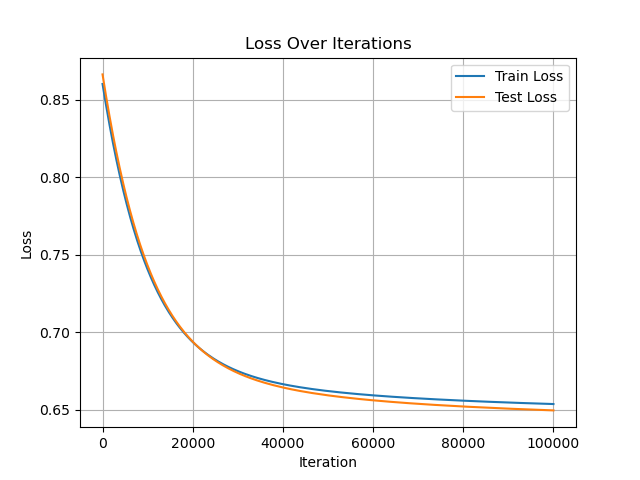
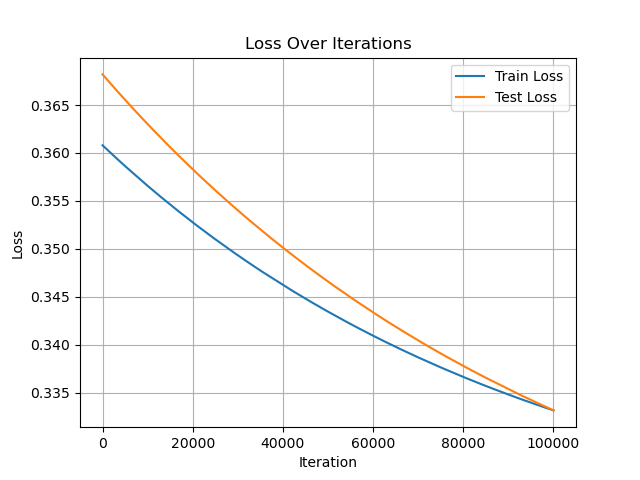
Add files via upload

diff --git a/midterm.py b/midterm.py
@@ -10,11 +10,17 @@ start_time = time.time()
 
 X_train, Y_train, X_test, Y_test = load_dataset('ai4i2020.csv')
 
-# linear_model = LinearRegression(n_iter=300000, lr=5e-6, batch_size=64)
-# linear_model.train(X_train, Y_train, X_test, Y_test)
-# linear_model.plot_loss()
-# evaluate_model(linear_model, X_test, Y_test)
-# plot_confusion_results(linear_model, X_test, Y_test)
+linear_model = LinearRegression(n_iter=50000, lr=8e-4, batch_size=64)
+linear_model.train(X_train, Y_train, X_test, Y_test)
+linear_model.plot_loss()
+evaluate_model(linear_model, X_test, Y_test)
+plot_confusion_results(linear_model, X_test, Y_test)
+
+# from sklearn.linear_model import LinearRegression
+# linear_sklearn = LinearRegression()
+# linear_sklearn.fit(X_train, Y_train)
+# evaluate_model(linear_sklearn, X_test, Y_test)
+# plot_confusion_results(linear_sklearn, X_test, Y_test)
 
 # perceptron_model = Perceptron(n_iter=10000, lr=2e-4, batch_size=64)
 # perceptron_model.train(X_train, Y_train, X_test, Y_test)
@@ -22,24 +28,35 @@ X_train, Y_train, X_test, Y_test = load_dataset('ai4i2020.csv')
 # evaluate_model(perceptron_model, X_test, Y_test)
 # plot_confusion_results(perceptron_model, X_test, Y_test)
 
+# from sklearn.linear_model import Perceptron
+# perceptron_sklearn = Perceptron(max_iter=100000, random_state=42)
+# perceptron_sklearn.fit(X_train, Y_train)
+# evaluate_model(perceptron_sklearn, X_test, Y_test)
+# plot_confusion_results(perceptron_sklearn, X_test, Y_test)
+
 # logistic_model = LogisticRegression(n_iter=100000, lr=1e-6, batch_size=64)
 # logistic_model.train(X_train, Y_train, X_test, Y_test)
 # logistic_model.plot_loss()
 # evaluate_model(logistic_model, X_test, Y_test)
 # plot_confusion_results(logistic_model, X_test, Y_test)
 
-mlp_model = MultiLayerPerceptron(layer_sizes=[X_train.shape[1],12,35,73,21,2], n_iter=10000, lr=1e-6, batch_size=64)
-mlp_model.train(X_train, Y_train, X_test, Y_test)
-mlp_model.plot_loss()
-evaluate_model(mlp_model, X_test, Y_test)
-plot_confusion_results(mlp_model, X_test, Y_test)
+# from sklearn.linear_model import LogisticRegression
+# logistic_sklearn = LogisticRegression(max_iter=100000, random_state=42)
+# logistic_sklearn.fit(X_train, Y_train)
+# evaluate_model(logistic_sklearn, X_test, Y_test)
+# plot_confusion_results(logistic_sklearn, X_test, Y_test)
 
+# mlp_model = MultiLayerPerceptron(layer_sizes=[X_train.shape[1],12,35,73,21,2], n_iter=10000, lr=1e-6, batch_size=64)
+# mlp_model.train(X_train, Y_train, X_test, Y_test)
+# mlp_model.plot_loss()
+# evaluate_model(mlp_model, X_test, Y_test)
+# plot_confusion_results(mlp_model, X_test, Y_test)
 
 # from sklearn.neural_network import MLPClassifier
-# mlp = MLPClassifier(hidden_layer_sizes=(12,47,101,11), activation='relu', solver='adam', max_iter=10000, random_state=42)
-# mlp.fit(X_train, Y_train)
-# evaluate_model(mlp, X_test, Y_test)
-# plot_confusion_results(mlp, X_test, Y_test)
+# mlp_sklearn = MLPClassifier(hidden_layer_sizes=(12,47,101,11), activation='relu', solver='adam', max_iter=10000, random_state=42)
+# mlp_sklearn.fit(X_train, Y_train)
+# evaluate_model(mlp_sklearn, X_test, Y_test)
+# plot_confusion_results(mlp_sklearn, X_test, Y_test)
 
 end_time = time.time()
 print(f"Total time taken: {end_time - start_time} seconds")

diff --git a/evaluation.py b/evaluation.py
@@ -39,7 +39,7 @@ def plot_confusion_results(model, X_test, Y_test):
     ax.scatter(X_plot[TP_mask][:, 0], X_plot[TP_mask][:, 1], X_plot[TP_mask][:, 2], 
                c='green', label='True Positive (TP)', alpha=0.8, edgecolor='k', marker='o')
     ax.scatter(X_plot[FP_mask][:, 0], X_plot[FP_mask][:, 1], X_plot[FP_mask][:, 2], 
-               c='red', label='False Positive (FP)', alpha=0.8, edgecolor='k', marker='x')
+               c='red', label='False Positive (FP)', alpha=0.8, marker='x')
     ax.scatter(X_plot[TN_mask][:, 0], X_plot[TN_mask][:, 1], X_plot[TN_mask][:, 2], 
                c='blue', label='True Negative (TN)', alpha=0.8, edgecolor='k', marker='^')
     ax.scatter(X_plot[FN_mask][:, 0], X_plot[FN_mask][:, 1], X_plot[FN_mask][:, 2], 

diff --git a/linear_regression.py b/linear_regression.py
@@ -38,14 +38,14 @@ class LinearRegression:
 
     def calculate_loss(self, y_true, y_pred):
         # MSE loss
-        weights = np.where(y_true == 0, 0.5, 0.5)
+        weights = np.where(y_true == 0, 0.4, 0.6)
         loss = weights * (y_true - y_pred)**2
         return np.mean(loss)
 
     def gradient(self, X, y, y_pred):
         # gradient
         X = self.preprocess_data_X(X)
-        weights = np.where(y == 0, 0.5, 0.5) 
+        weights = np.where(y == 0, 0.4, 0.6) 
         grad = (X.T @ ((weights * (y_pred - y)).reshape(-1, 1))).flatten() / y.size
         return grad
 

diff --git a/load.py b/load.py
@@ -69,8 +69,8 @@ def load_dataset(file_path):
     X_train, Y_train, X_test, Y_test = split_train_test(X, Y, train_ratio=0.7)
 
     # Step 8: Balance the dataset
-    X_train, Y_train = adasyn(X_train, Y_train, minority_class=1, beta=0.1, k=5)
+    # X_train, Y_train = adasyn(X_train, Y_train, minority_class=1, beta=0.1, k=5)
     X_train, Y_train = cluster_undersample(X_train, Y_train, ratio=0.6)
-    X_test, Y_test = cluster_undersample(X_test, Y_test, ratio=0.65)
+    X_test, Y_test = cluster_undersample(X_test, Y_test, ratio=0.7)
 
     return X_train, Y_train, X_test, Y_test

diff --git a/logistic_regression.py b/logistic_regression.py
@@ -1,7 +1,6 @@
 import numpy as np
 import matplotlib.pyplot as plt
 
-
 class LogisticRegression:
     def __init__(self, n_iter=200, lr=1e-3, alpha=0.05, batch_size=64):
         self.n_iter = n_iter # number of iterations

diff --git a/readme.md b/readme.md
@@ -1,0 +1,17 @@
+
+## linear regression
+### my model
+linear_model = LinearRegression(n_iter=50000, lr=9e-4, batch_size=64)
+linear_model.train(X_train, Y_train, X_test, Y_test)
+linear_model.plot_loss()
+evaluate_model(linear_model, X_test, Y_test)
+plot_confusion_results(linear_model, X_test, Y_test)
+
+**TP: 83  TN: 206  FP: 36  FN: 21**
+Accuracy: 0.8352601156069365
+Precision: 0.6974789915966386
+Recall: 0.7980769230769231
+F1 Score: 0.7443946188340808
+Total time taken: 38.09750461578369 seconds
+
+![Linear Loss](./linear_loss-1.png){ width=45% } ![Confusion Results](./confusion_results-1.png){ width=45% }
